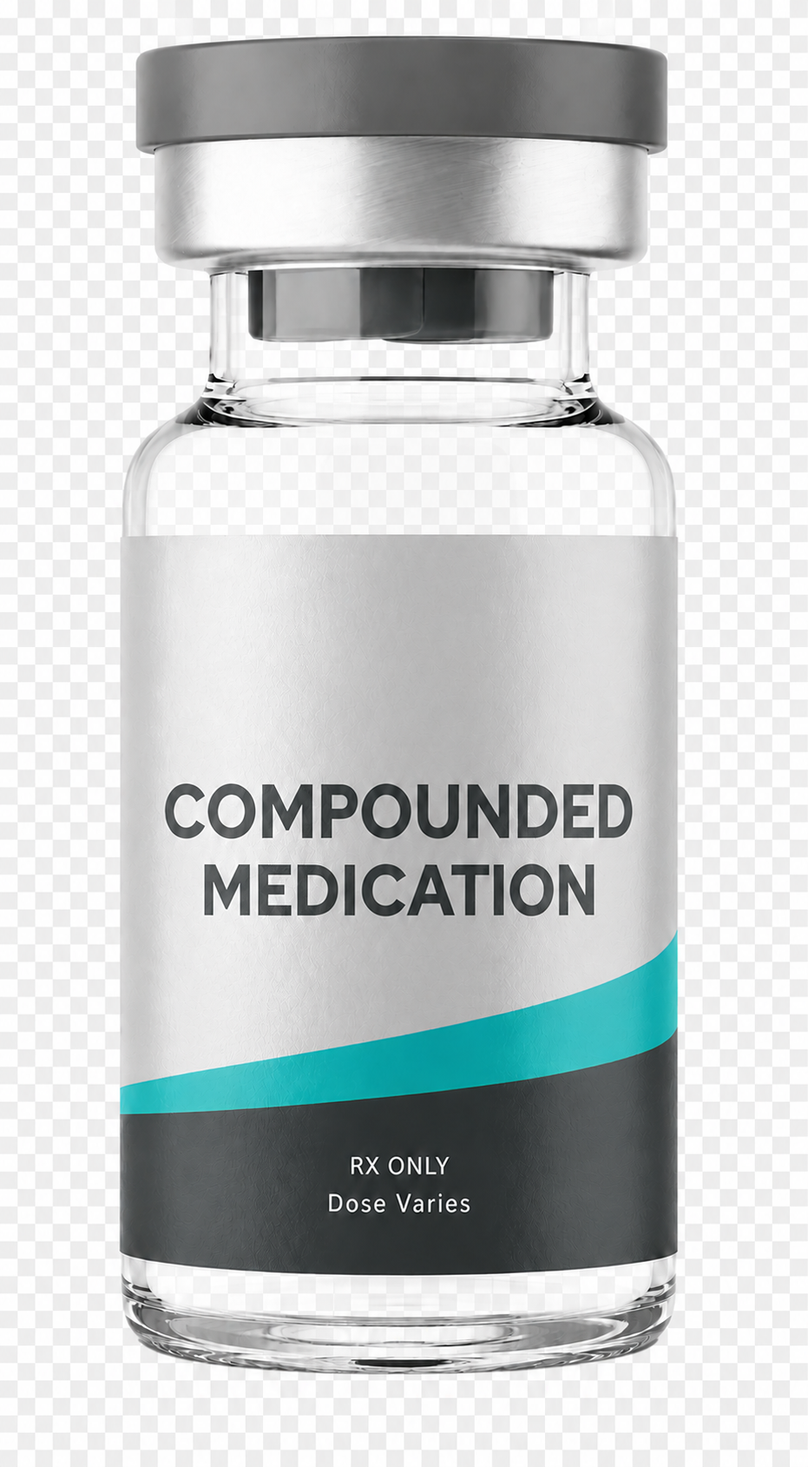
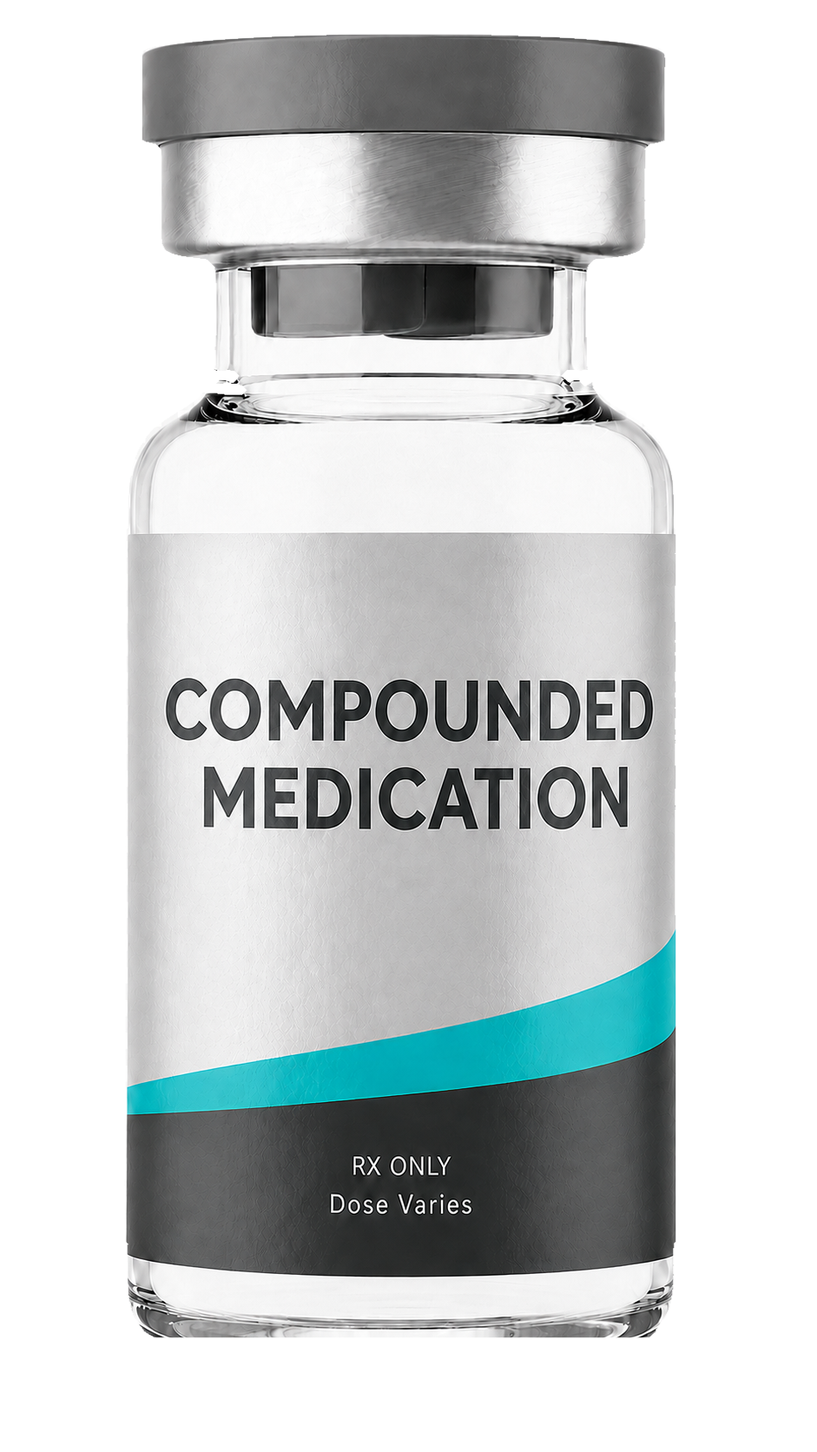
Refine compounded medication imagery and protocol presentation

diff --git a/app/page.tsx b/app/page.tsx
@@ -4,8 +4,6 @@
 import { useEffect, useMemo, useRef, useState } from "react";
 import { GoalMegaMenu } from "./components/SiteChrome";
 import { careJourney } from "./components/CareJourney";
-import { products } from "./components/product-data";
-import { TreatmentCard } from "./components/TreatmentCard";
 
 const legacyJourney = [
   ["01","Program selected","Choose the area where you want support."],
@@ -52,7 +50,7 @@ const heroPrograms: HeroProgram[] = [
   { title:"Sexual Health", href:"/eligibility/sexual-health", image:"/program-sexual-health-silhouette.webp", kind:"person women sexual" },
   { title:"Hair Restoration", href:"/eligibility/hair-restoration", image:"/program-hair-restoration-silhouette.webp", kind:"person hair" },
   { title:"Skin Regeneration", href:"/eligibility/skin-restoration", image:"/program-skin-rejuvenation-silhouette.webp", kind:"person skin" },
-  { title:"Compounded care", subtitle:"Patient-specific options", price:"$199", href:"/compounded", image:"/compounded-semaglutide-transparent.png", kind:"product semaglutide" },
+  { title:"Compounded care", subtitle:"Patient-specific options", price:"$199", href:"/compounded", image:"/v6/compounded-medication-generic.png", kind:"product semaglutide" },
 ];
 
 export default function Home() {
@@ -132,12 +130,6 @@ export default function Home() {
       <div className="wellness-tabs" role="tablist" aria-label="Wellness programs">{wellnessPrograms.map((program,index)=><button key={program.name} className={programActive===index?"active":""} onClick={()=>setProgramActive(index)} role="tab" aria-selected={programActive===index}><span>{program.number}</span><strong>{program.name}</strong><small>{program.kicker}</small><i><b></b></i></button>)}</div>
     </section>
 
-    <section className="section-shell" id="treatments">
-      <div className="section-heading"><div><p className="eyebrow">Treatment options</p><h2>Find out which option may be right for you.</h2></div><p>A provider reviews your health history, preferences and goals before recommending treatment.</p></div>
-      <div className="treatment-grid branded-grid">{products.map((product,index)=><TreatmentCard product={product} index={index} key={product.slug}/>)}</div>
-      <p className="section-disclaimer">Prescription products require an online consultation with an independent licensed healthcare provider who determines whether a prescription is appropriate. Compounded medications are not FDA approved.</p>
-    </section>
-
     <section className="bmi-section" aria-labelledby="bmi-title">
       <div className="bmi-intro"><p className="eyebrow">A useful starting point</p><h2 id="bmi-title">Check your BMI.</h2><p>Enter your height and weight for a quick estimate. A licensed provider considers your full health history, not BMI alone.</p></div>
       <div className="bmi-card">
@@ -174,9 +166,9 @@ export default function Home() {
     <section className="compounded-section compounded-section-v6" id="compounded">
       <div className="compounded-intro"><p className="eyebrow">Compounded medications</p><h2>Compare semaglutide, tirzepatide, and GLP-1 microdose.</h2><p>An independent provider may prescribe a compounded medication when it is legally available and appropriate for the patient. Compounded medications are not generic versions of branded drugs, and they are not FDA approved.</p></div>
       <div className="glance-grid glance-grid-v6">
-        <a className="glance-card semaglutide glance-card-v6" href="/eligibility/weight-loss"><img className="glance-product-vial" src="/v6/semaglutide-2.5mg-ml.png" alt="Compounded semaglutide medication vial"/><div className="glance-content"><div className="glance-number">01</div><p className="pill-label">Compounded option</p><h3>Semaglutide</h3><p className="glance-sub">Acts on the GLP-1 receptor.</p><dl><div><dt>Typical format</dt><dd>Injection*</dd></div><div><dt>Schedule</dt><dd>Set by provider</dd></div><div><dt>Clinical review</dt><dd>Required</dd></div><div><dt>FDA status</dt><dd>Not FDA approved</dd></div></dl><span className="glance-assessment-cta">Start assessment <b>→</b></span></div></a>
-        <a className="glance-card tirzepatide glance-card-v6" href="/eligibility/weight-loss"><img className="glance-product-vial" src="/v6/tirzepatide-5mg-0.5ml.png" alt="Compounded tirzepatide medication vial"/><div className="glance-content"><div className="glance-number">02</div><p className="pill-label">Compounded option</p><h3>Tirzepatide</h3><p className="glance-sub">Acts on the GIP and GLP-1 receptors.</p><dl><div><dt>Typical format</dt><dd>Injection*</dd></div><div><dt>Schedule</dt><dd>Set by provider</dd></div><div><dt>Clinical review</dt><dd>Required</dd></div><div><dt>FDA status</dt><dd>Not FDA approved</dd></div></dl><span className="glance-assessment-cta">Start assessment <b>→</b></span></div></a>
-        <a className="glance-card microdose glance-card-v6" href="/eligibility/weight-loss"><img className="glance-product-vial" src="/v6/glp1-microdose-500mcg-ml.png" alt="Compounded GLP-1 microdose medication vial"/><div className="glance-content"><div className="glance-number">03</div><p className="pill-label">Compounded option</p><h3>GLP-1 Microdose</h3><p className="glance-sub">Lower-dose GLP-1 pathway considered only after provider review.</p><dl><div><dt>Typical format</dt><dd>Injection*</dd></div><div><dt>Schedule</dt><dd>Set by provider</dd></div><div><dt>Clinical review</dt><dd>Required</dd></div><div><dt>FDA status</dt><dd>Not FDA approved</dd></div></dl><span className="glance-assessment-cta">Start assessment <b>→</b></span></div></a>
+        <a className="glance-card semaglutide glance-card-v6" href="/eligibility/weight-loss"><img className="glance-product-vial" src="/v6/compounded-medication-generic.png" alt="Compounded medication vial"/><div className="glance-content"><div className="glance-number">01</div><p className="pill-label">Compounded option</p><h3>Semaglutide</h3><p className="glance-sub">Acts on the GLP-1 receptor.</p><dl><div><dt>Typical format</dt><dd>Injection*</dd></div><div><dt>Schedule</dt><dd>Set by provider</dd></div><div><dt>Clinical review</dt><dd>Required</dd></div><div><dt>FDA status</dt><dd>Not FDA approved</dd></div></dl><span className="glance-assessment-cta">Start assessment <b>→</b></span></div></a>
+        <a className="glance-card tirzepatide glance-card-v6" href="/eligibility/weight-loss"><img className="glance-product-vial" src="/v6/compounded-medication-generic.png" alt="Compounded medication vial"/><div className="glance-content"><div className="glance-number">02</div><p className="pill-label">Compounded option</p><h3>Tirzepatide</h3><p className="glance-sub">Acts on the GIP and GLP-1 receptors.</p><dl><div><dt>Typical format</dt><dd>Injection*</dd></div><div><dt>Schedule</dt><dd>Set by provider</dd></div><div><dt>Clinical review</dt><dd>Required</dd></div><div><dt>FDA status</dt><dd>Not FDA approved</dd></div></dl><span className="glance-assessment-cta">Start assessment <b>→</b></span></div></a>
+        <a className="glance-card microdose glance-card-v6" href="/eligibility/weight-loss"><img className="glance-product-vial" src="/v6/compounded-medication-generic.png" alt="Compounded medication vial"/><div className="glance-content"><div className="glance-number">03</div><p className="pill-label">Compounded option</p><h3>GLP-1 Microdose</h3><p className="glance-sub">Lower-dose GLP-1 pathway considered only after provider review.</p><dl><div><dt>Typical format</dt><dd>Injection*</dd></div><div><dt>Schedule</dt><dd>Set by provider</dd></div><div><dt>Clinical review</dt><dd>Required</dd></div><div><dt>FDA status</dt><dd>Not FDA approved</dd></div></dl><span className="glance-assessment-cta">Start assessment <b>→</b></span></div></a>
       </div><p className="compounded-note">*Form, ingredients, concentration and availability vary by prescription and dispensing pharmacy. Compounded medications are prepared for an identified patient and are not reviewed by FDA for safety, effectiveness or quality before marketing.</p>
     </section>
 

diff --git a/app/product-experience.css b/app/product-experience.css
@@ -7,8 +7,8 @@
 .product-experience .product-ingredient{font-size:18px;color:#526466}
 .product-experience .product-hero-copy ul{margin:27px 0 34px;display:grid;gap:11px}
 .product-experience .product-hero-product{min-height:760px;position:relative;isolation:isolate;overflow:hidden;background:radial-gradient(circle at 50% 50%,#fff 0 16%,transparent 52%)}
-.product-experience .product-hero-product:has(>img[src$="glp1-vial-neutral-v2.png"]){background:radial-gradient(circle at 50% 42%,rgba(255,255,255,.98) 0 18%,rgba(197,238,236,.96) 42%,rgba(104,194,193,.34) 68%,rgba(53,182,184,.1) 100%)}
-.product-experience .product-hero-product>img[src$="glp1-vial-neutral-v2.png"]{width:51.8%;height:427px}
+.product-experience .product-hero-product:has(>img[src$="v6/compounded-medication-generic.png"]){background:radial-gradient(circle at 50% 42%,rgba(255,255,255,.98) 0 18%,rgba(197,238,236,.96) 42%,rgba(104,194,193,.34) 68%,rgba(53,182,184,.1) 100%)}
+.product-experience .product-hero-product>img[src$="v6/compounded-medication-generic.png"]{width:51.8%;height:427px}
 .product-experience.product-glp-1-tablets{--med-light:#fff;--med-mid:#dcebed;--med-deep:#9fb9be;--med-card:rgba(238,245,245,.83)}
 .product-experience.product-wegovy-pill{--med-light:#fff;--med-mid:#f0eadf;--med-deep:#c9d8d5;--med-card:rgba(247,243,235,.86)}
 .product-experience.product-wegovy-injection{--med-light:#faffff;--med-mid:#c8ebeb;--med-deep:#5f989d;--med-card:rgba(219,241,241,.84)}
@@ -16,11 +16,11 @@
 .product-experience:is(.product-glp-1-tablets,.product-wegovy-pill,.product-wegovy-injection,.product-zepbound-injection) .product-hero-product{background:radial-gradient(circle at 50% 42%,var(--med-light) 0 18%,var(--med-mid) 45%,var(--med-deep) 100%)}
 .product-experience:is(.product-glp-1-tablets,.product-wegovy-pill,.product-wegovy-injection,.product-zepbound-injection) .product-hero-product .product-aura{width:68%;height:72%;border:1px solid rgba(255,255,255,.93);border-radius:34px;background:linear-gradient(155deg,rgba(255,255,255,.92),var(--med-card));filter:none;box-shadow:inset 0 1px 0 #fff,0 28px 70px rgba(39,82,84,.14)}
 .product-experience:is(.product-glp-1-tablets,.product-wegovy-pill,.product-wegovy-injection,.product-zepbound-injection) .product-hero-product>img{width:min(58%,520px);height:500px}
-.product-experience .power-image:has(img[src$="glp1-tablets.png"]),.product-experience .compare-grid article>div:has(img[src$="glp1-tablets.png"]){background:radial-gradient(circle,#fff,#dcebed 68%,#9fb9be)}
+.product-experience .power-image:has(img[src$="compounded-medication-generic.png"]),.product-experience .compare-grid article>div:has(img[src$="compounded-medication-generic.png"]){background:radial-gradient(circle,#fff,#dcebed 68%,#9fb9be)}
 .product-experience .power-image:has(img[src$="wegovy-pill.png"]),.product-experience .compare-grid article>div:has(img[src$="wegovy-pill.png"]){background:radial-gradient(circle,#fff,#f0eadf 68%,#c9d8d5)}
 .product-experience .power-image:has(img[src$="wegovy-injection.png"]),.product-experience .compare-grid article>div:has(img[src$="wegovy-injection.png"]){background:radial-gradient(circle,#faffff,#c8ebeb 68%,#5f989d)}
 .product-experience .power-image:has(img[src$="zepbound-injection.png"]),.product-experience .compare-grid article>div:has(img[src$="zepbound-injection.png"]){background:radial-gradient(circle,#fff,#e7e0f1 68%,#a8cccc)}
-.product-experience .power-image:has(img[src$="glp1-tablets.png"]),.product-experience .power-image:has(img[src$="wegovy-pill.png"]),.product-experience .power-image:has(img[src$="wegovy-injection.png"]),.product-experience .power-image:has(img[src$="zepbound-injection.png"]),.product-experience .compare-grid article>div:has(img[src$="glp1-tablets.png"]),.product-experience .compare-grid article>div:has(img[src$="wegovy-pill.png"]),.product-experience .compare-grid article>div:has(img[src$="wegovy-injection.png"]),.product-experience .compare-grid article>div:has(img[src$="zepbound-injection.png"]){border:1px solid rgba(255,255,255,.9);border-radius:20px;box-shadow:inset 0 1px 0 #fff,0 16px 38px rgba(39,82,84,.1)}
+.product-experience .power-image:has(img[src$="compounded-medication-generic.png"]),.product-experience .power-image:has(img[src$="wegovy-pill.png"]),.product-experience .power-image:has(img[src$="wegovy-injection.png"]),.product-experience .power-image:has(img[src$="zepbound-injection.png"]),.product-experience .compare-grid article>div:has(img[src$="compounded-medication-generic.png"]),.product-experience .compare-grid article>div:has(img[src$="wegovy-pill.png"]),.product-experience .compare-grid article>div:has(img[src$="wegovy-injection.png"]),.product-experience .compare-grid article>div:has(img[src$="zepbound-injection.png"]){border:1px solid rgba(255,255,255,.9);border-radius:20px;box-shadow:inset 0 1px 0 #fff,0 16px 38px rgba(39,82,84,.1)}
 .product-experience .product-hero-product:before,.product-experience .product-hero-product:after{content:"";position:absolute;border:1px solid rgb(53 182 184 / 25%);border-radius:50%;pointer-events:none}
 .product-experience .product-hero-product:before{width:72%;aspect-ratio:1;transform:rotate(-13deg)}
 .product-experience .product-hero-product:after{width:91%;aspect-ratio:1;transform:rotate(21deg);border-color:rgb(255 255 255 / 80%)}
@@ -68,4 +68,4 @@
 @media(max-width:680px){.compounded-closing{min-height:650px;padding-top:270px}.compounded-closing-graphic{height:235px}.compounded-closing-graphic span{width:145px;height:220px}}
 @media(max-width:1000px){.product-page-nav{gap:22px}.product-experience .product-hero-detail{grid-template-columns:1fr}.product-experience .product-hero-product{min-height:620px}.product-experience .product-hero-product>img{height:560px}.product-experience .product-meet-image{height:560px}}
 @media(max-width:680px){.product-page-nav{justify-content:flex-start;overflow-x:auto;padding:0 20px;gap:24px;scrollbar-width:none}.product-page-nav a{flex:none}.product-experience .product-hero-copy{padding:70px 22px}.product-experience .product-hero-copy h1{font-size:55px}.product-experience .product-hero-product{min-height:510px}.product-experience .product-hero-product>img{width:88%;height:455px}.product-experience .product-hero-product.stage-life>img,.product-experience .product-hero-product.stage-care>img{width:82%;height:405px}.product-view-switcher{right:13px;top:11%;padding:8px}.product-view-switcher button{width:36px;height:36px}.product-stage-number{font-size:145px}.product-marquee{justify-content:flex-start;overflow-x:auto;gap:24px}.product-marquee span,.product-marquee i{flex:none}.product-experience .product-meet-image{height:450px}.product-experience .product-meet-copy{padding:65px 22px}.product-experience .product-meet-copy h2{font-size:47px}}
-@media(max-width:680px){.product-experience .product-hero-product>img[src$="glp1-vial-neutral-v2.png"]{width:61.6%;height:318.5px}}
+@media(max-width:680px){.product-experience .product-hero-product>img[src$="v6/compounded-medication-generic.png"]{width:61.6%;height:318.5px}}

diff --git a/app/compounded/page.tsx b/app/compounded/page.tsx
@@ -1,4 +1,4 @@
 import Link from "next/link";
 import { SiteFooter, SiteHeader } from "../components/SiteChrome";
 
-export default function CompoundedPage(){return <main className="detail-page compounded-page"><SiteHeader/><section className="info-hero compounded-info"><div><p className="detail-kicker">Compounded care</p><h1>Patient-specific options, when clinically necessary.</h1><p>Learn how independent providers and licensed pharmacies handle compounded medications through Rejuvonix.</p><Link className="detail-primary" href="/eligibility/weight-loss">Check eligibility</Link></div><img src="/compounded-member-unique.png" alt="A member reviewing an individualized care plan"/></section><section className="two-treatment two-treatment-v6"><div className="two-treatment-heading"><p className="detail-kicker">At a glance</p><h2>Semaglutide, tirzepatide, and GLP-1 microdose.</h2><p>Availability depends on clinical need, applicable law, pharmacy access and the provider’s judgment.</p></div><div className="two-treatment-grid two-treatment-grid-v6"><Link className="compounded-option-card" href="/eligibility/weight-loss"><img className="matched-vial" src="/v6/semaglutide-2.5mg-ml.png" alt="Compounded semaglutide medication vial"/><p>Compounded option</p><h3>Semaglutide</h3><span>GLP-1 receptor agonist</span><b>Start assessment →</b></Link><Link className="compounded-option-card dark" href="/eligibility/weight-loss"><img className="matched-vial" src="/v6/tirzepatide-5mg-0.5ml.png" alt="Compounded tirzepatide medication vial"/><p>Compounded option</p><h3>Tirzepatide</h3><span>GIP and GLP-1 receptor agonist</span><b>Start assessment →</b></Link><Link className="compounded-option-card microdose" href="/eligibility/weight-loss"><img className="matched-vial" src="/v6/glp1-microdose-500mcg-ml.png" alt="Compounded GLP-1 microdose medication vial"/><p>Compounded option</p><h3>GLP-1 Microdose</h3><span>Lower-dose GLP-1 pathway</span><b>Start assessment →</b></Link></div></section><section className="editorial-split compounded-personal"><img src="/compounded-individual-care-v2.png" alt="A patient reviewing an individualized care plan with a clinician"/><div><p className="detail-kicker">What patient specific means</p><h2>Your prescription begins with your medical needs.</h2><p>A compounded medication is prepared for an individual patient based on a valid prescription. It is not a generic version of a branded drug and is not FDA approved.</p><ul><li>Independent licensed provider evaluation</li><li>Prescription sent to a licensed compounding pharmacy</li><li>Pharmacy-specific instructions and fulfillment</li><li>Provider follow-up through the platform</li></ul></div></section><section className="safety-detail compounded-safety-note"><div><p className="detail-kicker">Important distinction</p><h2>Compounded medications are not FDA approved.</h2></div><div><p>The FDA does not review compounded medications for safety, effectiveness or quality before they are marketed. A prescription is never guaranteed. Compounded options are offered only when legally available and clinically appropriate.</p><Link href="/safety">Read the safety overview →</Link></div></section><SiteFooter/></main>}
+export default function CompoundedPage(){return <main className="detail-page compounded-page"><SiteHeader/><section className="info-hero compounded-info"><div><p className="detail-kicker">Compounded care</p><h1>Patient-specific options, when clinically necessary.</h1><p>Learn how independent providers and licensed pharmacies handle compounded medications through Rejuvonix.</p><Link className="detail-primary" href="/eligibility/weight-loss">Check eligibility</Link></div><img src="/compounded-member-unique.png" alt="A member reviewing an individualized care plan"/></section><section className="two-treatment two-treatment-v6"><div className="two-treatment-heading"><p className="detail-kicker">At a glance</p><h2>Semaglutide, tirzepatide, and GLP-1 microdose.</h2><p>Availability depends on clinical need, applicable law, pharmacy access and the provider’s judgment.</p></div><div className="two-treatment-grid two-treatment-grid-v6"><Link className="compounded-option-card" href="/eligibility/weight-loss"><img className="matched-vial" src="/v6/compounded-medication-generic.png" alt="Compounded medication vial"/><p>Compounded option</p><h3>Semaglutide</h3><span>GLP-1 receptor agonist</span><b>Start assessment →</b></Link><Link className="compounded-option-card dark" href="/eligibility/weight-loss"><img className="matched-vial" src="/v6/compounded-medication-generic.png" alt="Compounded medication vial"/><p>Compounded option</p><h3>Tirzepatide</h3><span>GIP and GLP-1 receptor agonist</span><b>Start assessment →</b></Link><Link className="compounded-option-card microdose" href="/eligibility/weight-loss"><img className="matched-vial" src="/v6/compounded-medication-generic.png" alt="Compounded medication vial"/><p>Compounded option</p><h3>GLP-1 Microdose</h3><span>Lower-dose GLP-1 pathway</span><b>Start assessment →</b></Link></div></section><section className="editorial-split compounded-personal"><img src="/compounded-individual-care-v2.png" alt="A patient reviewing an individualized care plan with a clinician"/><div><p className="detail-kicker">What patient specific means</p><h2>Your prescription begins with your medical needs.</h2><p>A compounded medication is prepared for an individual patient based on a valid prescription. It is not a generic version of a branded drug and is not FDA approved.</p><ul><li>Independent licensed provider evaluation</li><li>Prescription sent to a licensed compounding pharmacy</li><li>Pharmacy-specific instructions and fulfillment</li><li>Provider follow-up through the platform</li></ul></div></section><section className="safety-detail compounded-safety-note"><div><p className="detail-kicker">Important distinction</p><h2>Compounded medications are not FDA approved.</h2></div><div><p>The FDA does not review compounded medications for safety, effectiveness or quality before they are marketed. A prescription is never guaranteed. Compounded options are offered only when legally available and clinically appropriate.</p><Link href="/safety">Read the safety overview →</Link></div></section><SiteFooter/></main>}

diff --git a/app/product-cards.css b/app/product-cards.css
@@ -68,9 +68,9 @@
 @media(max-width:760px){#treatments .branded-grid .treatment-card{min-height:420px;padding:15px}#treatments .branded-grid .product-stage{height:220px;margin:9px -3px 6px}#treatments .branded-grid .product-stage img{width:96%;height:96%}#treatments .branded-grid .card-content>a{margin-top:11px}}
 
 /* One consistent canvas for the approved neutral peptide vial. */
-.treatment-card:has(img[src$="glp1-vial-neutral-v2.png"]){background:linear-gradient(145deg,#f2fbfa 0%,#d8f0ef 58%,#bddfdf 100%)!important}
-.product-stage:has(img[src$="glp1-vial-neutral-v2.png"]){border:1px solid rgba(255,255,255,.78);background:radial-gradient(circle at 50% 42%,rgba(255,255,255,.98) 0 18%,rgba(197,238,236,.96) 42%,rgba(104,194,193,.34) 68%,rgba(53,182,184,.1) 100%);box-shadow:inset 0 1px 0 rgba(255,255,255,.95),0 18px 42px rgba(45,101,104,.11)}
-.product-stage:has(img[src$="glp1-vial-neutral-v2.png"]) img{width:65.8%!important;height:65.8%!important;mix-blend-mode:normal!important;filter:drop-shadow(0 22px 22px rgba(32,77,79,.18))}
+.treatment-card:has(img[src$="v6/compounded-medication-generic.png"]){background:linear-gradient(145deg,#f2fbfa 0%,#d8f0ef 58%,#bddfdf 100%)!important}
+.product-stage:has(img[src$="v6/compounded-medication-generic.png"]){border:1px solid rgba(255,255,255,.78);background:radial-gradient(circle at 50% 42%,rgba(255,255,255,.98) 0 18%,rgba(197,238,236,.96) 42%,rgba(104,194,193,.34) 68%,rgba(53,182,184,.1) 100%);box-shadow:inset 0 1px 0 rgba(255,255,255,.95),0 18px 42px rgba(45,101,104,.11)}
+.product-stage:has(img[src$="v6/compounded-medication-generic.png"]) img{width:65.8%!important;height:65.8%!important;mix-blend-mode:normal!important;filter:drop-shadow(0 22px 22px rgba(32,77,79,.18))}
 
 /* One measured product frame for all five GLP-1 cards. */
 #treatments .branded-grid .product-stage{
@@ -104,19 +104,19 @@
   background:linear-gradient(160deg,rgba(255,255,255,.88),rgba(224,242,240,.6));
   box-shadow:0 14px 35px rgba(39,87,89,.1);
 }
-#treatments .branded-grid .product-stage:has(img[src$="glp1-tablets.png"]){background:radial-gradient(circle at 50% 42%,#fff 0 18%,#edf4f4 42%,#c9dcde 70%,#aebfc3 100%)}
-#treatments .branded-grid .product-stage:has(img[src$="glp1-tablets.png"]):before{background:linear-gradient(160deg,rgba(255,255,255,.94),rgba(225,235,236,.74));border-color:rgba(255,255,255,.94)}
+#treatments .branded-grid .product-stage:has(img[src$="compounded-medication-generic.png"]){background:radial-gradient(circle at 50% 42%,#fff 0 18%,#edf4f4 42%,#c9dcde 70%,#aebfc3 100%)}
+#treatments .branded-grid .product-stage:has(img[src$="compounded-medication-generic.png"]):before{background:linear-gradient(160deg,rgba(255,255,255,.94),rgba(225,235,236,.74));border-color:rgba(255,255,255,.94)}
 #treatments .branded-grid .product-stage:has(img[src$="wegovy-pill.png"]){background:radial-gradient(circle at 50% 42%,#fff 0 18%,#f7f3eb 42%,#e5ded1 70%,#cbd9d7 100%)}
 #treatments .branded-grid .product-stage:has(img[src$="wegovy-pill.png"]):before{background:linear-gradient(160deg,rgba(255,255,255,.95),rgba(239,234,223,.75))}
 #treatments .branded-grid .product-stage:has(img[src$="wegovy-injection.png"]){background:radial-gradient(circle at 50% 42%,#faffff 0 18%,#dff3f3 42%,#9fcfd1 70%,#5e959a 100%)}
 #treatments .branded-grid .product-stage:has(img[src$="wegovy-injection.png"]):before{background:linear-gradient(160deg,rgba(255,255,255,.94),rgba(202,234,234,.7))}
 #treatments .branded-grid .product-stage:has(img[src$="zepbound-injection.png"]){background:radial-gradient(circle at 50% 42%,#fff 0 18%,#f2eef8 42%,#d7cee7 70%,#a9cece 100%)}
 #treatments .branded-grid .product-stage:has(img[src$="zepbound-injection.png"]):before{background:linear-gradient(160deg,rgba(255,255,255,.95),rgba(231,226,241,.72))}
-#treatments .branded-grid .product-stage img[src$="glp1-vial-neutral-v2.png"]{
+#treatments .branded-grid .product-stage img[src$="v6/compounded-medication-generic.png"]{
   width:56%!important;
   height:56%!important;
 }
 @media(max-width:760px){
   #treatments .branded-grid .product-stage img{width:76%!important;height:76%!important}
-  #treatments .branded-grid .product-stage img[src$="glp1-vial-neutral-v2.png"]{width:54%!important;height:54%!important}
+  #treatments .branded-grid .product-stage img[src$="v6/compounded-medication-generic.png"]{width:54%!important;height:54%!important}
 }

diff --git a/app/protocols.css b/app/protocols.css
@@ -63,3 +63,20 @@
 @media(max-width:1000px){.protocol-detail-hero-v6{grid-template-columns:1fr!important}.protocol-hero-product{min-height:420px}.protocol-detail-lower{grid-template-columns:1fr}.protocol-detail-lower aside{justify-content:flex-start}.protocol-detail-lower aside>div{justify-content:flex-start}}
 @media(max-width:680px){.protocol-scroll-track{gap:14px;padding:0 20px}.protocol-product-card{flex-basis:84vw;min-height:690px!important;border-radius:26px!important}.protocol-card-visual{height:245px}.protocol-card-body{padding:28px 24px}.protocol-detail-hero-v6{padding:58px 22px 48px!important}.protocol-detail-copy h1{font-size:58px!important}.protocol-hero-product{min-height:380px}.protocol-hero-product>img{height:350px;width:min(220px,68%)}.protocol-bottle-halo{width:280px;height:280px}.protocol-floating-goal{font-size:9px}.protocol-detail-lower aside{display:grid!important;gap:10px}.protocol-detail-lower aside>div{display:grid;gap:5px}.protocol-inline-trust{justify-content:flex-start;gap:14px;padding-inline:4px}}
 @media(prefers-reduced-motion:reduce){.protocol-hero-product>img,.protocol-bottle-halo,.protocol-floating-goal{animation:none!important}.protocol-product-card,.protocol-card-visual img,.protocol-card-visual:after{transition:none!important}}
+
+/* Current protocol-count refinement: keep the bottle translucent behind a breathing number ring. */
+.protocol-hero-index,.protocol-category-count{position:relative;isolation:isolate;overflow:hidden}
+.protocol-hero-index>img,.protocol-category-count>img{position:absolute;z-index:-1;width:58%;height:86%;left:21%;top:7%;object-fit:contain;opacity:.13;filter:drop-shadow(0 20px 24px rgba(8,38,37,.2));transform:rotate(7deg)}
+.protocol-count-ring{position:relative;z-index:1;width:126px;height:126px;margin:18px 0 8px;display:grid;place-items:center;border:1px solid #53c5c8;border-radius:50%;box-shadow:0 0 0 10px rgba(83,197,200,.08),0 0 32px rgba(83,197,200,.22);animation:protocolCountPulse 3.6s ease-in-out infinite}
+.protocol-count-ring:after{content:"";position:absolute;inset:-10px;border:1px solid rgba(83,197,200,.5);border-radius:50%;animation:protocolCountPulse 3.6s ease-in-out infinite reverse}
+.protocol-category-count .protocol-count-ring{margin:0 0 16px}
+@keyframes protocolCountPulse{0%,100%{transform:scale(.98);opacity:.82}50%{transform:scale(1.04);opacity:1}}
+.protocol-floating-goal{--goal-rotation:-16deg}
+.goal-orbit-1{right:4%;top:20%;--goal-rotation:-18deg}.goal-orbit-2{left:2%;bottom:24%;--goal-rotation:18deg}.goal-orbit-3{right:13%;bottom:13%;--goal-rotation:-12deg}
+@keyframes protocolGoalDrift{0%,100%{transform:translate3d(0,0,22px) rotate(var(--goal-rotation))}50%{transform:translate3d(8px,-9px,42px) rotate(calc(var(--goal-rotation) + 4deg))}}
+@media(prefers-reduced-motion:reduce){.protocol-count-ring,.protocol-count-ring:after{animation:none}.protocol-floating-goal{animation:none!important}}
+
+/* Trust message sits directly below the protocol navigation, matching the compact dark assurance strip. */
+.protocol-inline-trust{max-width:none;margin:0;padding:18px 5vw;background:#30383b;border:0;color:#d9e1e0;gap:34px;justify-content:center}
+.protocol-inline-trust span{font-size:12px}.protocol-inline-trust b{color:#d9e1e0}.protocol-inline-trust .protocol-trust-rating{display:grid;grid-template-columns:auto auto;column-gap:10px;row-gap:2px}.protocol-trust-rating>b{grid-row:1 / span 2;color:#16bd8b;letter-spacing:2px}.protocol-trust-rating strong{font-size:13px;color:#fff}.protocol-trust-rating small{color:#aab7b7;font-size:10px}
+@media(max-width:680px){.protocol-inline-trust{justify-content:flex-start;gap:16px;overflow-x:auto;white-space:nowrap}.protocol-inline-trust .protocol-trust-rating{white-space:normal}}

diff --git a/app/components/ProductPage.tsx b/app/components/ProductPage.tsx
@@ -51,7 +51,7 @@ export function ProductPage({product}: {product: Product}) {
     <section className="future-banner"><img src={product.heroImage} alt={product.shortName} /><div><p className="detail-kicker">Care for the long term</p><h2>Build a plan you can understand and follow.</h2><Link className="detail-primary" href="/eligibility/weight-loss">Check eligibility</Link></div></section>
     <section className="safety-detail" id="important-safety"><div><p className="detail-kicker">Important safety information</p><h2>Know the risks before treatment.</h2></div><div><p>{product.safety}</p><p>Tell your provider about all medical conditions, allergies, pregnancy plans, and every prescription, over-the-counter medicine and supplement you use. Seek urgent care for a medical emergency.</p><p>{product.labelUrl?<a href={product.labelUrl} target="_blank" rel="noreferrer">Official FDA Prescribing Information (PDF) ↗</a>:<a href="https://www.fda.gov/drugs/human-drug-compounding/compounding-and-fda-questions-and-answers" target="_blank" rel="noreferrer">FDA compounding questions and answers ↗</a>}</p><Link href="/safety">Read the safety overview →</Link></div></section>
     <section className="detail-faq"><div><p className="detail-kicker">Frequently asked questions</p><h2>Common questions about {product.shortName}.</h2></div><div>{[[`Is ${product.shortName} guaranteed after the assessment?`,"No. A licensed provider decides whether treatment is appropriate."],["How is my dose selected?","Your provider selects the prescription and adjusts it only when clinically appropriate."],["Where does medication come from?","If prescribed, an independent licensed pharmacy dispenses and ships the medication."],["Can I ask questions after starting?","Yes. Use the platform for provider messages and required follow-up." ]].map(([question,answer]) => <details key={question}><summary>{question}<span>+</span></summary><p>{answer}</p></details>)}</div></section>
-    <section className={`detail-closing ${compounded?"compounded-closing":""}`}>{compounded&&<div className="compounded-closing-graphic" aria-hidden="true"><span><img src="/compounded-semaglutide-transparent.png" alt=""/></span><span><img src="/compounded-tirzepatide-transparent.png" alt=""/></span></div>}<p className="detail-kicker">Get started</p><h2>{compounded?"Find out which compounded option may fit your care plan.":"Find out which option may fit your health needs."}</h2><Link className="detail-primary" href="/eligibility/weight-loss">Start the assessment</Link><small>A prescription is not guaranteed.</small></section>
+    <section className={`detail-closing ${compounded?"compounded-closing":""}`}>{compounded&&<div className="compounded-closing-graphic" aria-hidden="true"><span><img src="/v6/compounded-medication-generic.png" alt=""/></span><span><img src="/v6/compounded-medication-generic.png" alt=""/></span></div>}<p className="detail-kicker">Get started</p><h2>{compounded?"Find out which compounded option may fit your care plan.":"Find out which option may fit your health needs."}</h2><Link className="detail-primary" href="/eligibility/weight-loss">Start the assessment</Link><small>A prescription is not guaranteed.</small></section>
     <SiteFooter />
   </main>;
 }

diff --git a/app/revamp.css b/app/revamp.css
@@ -34,3 +34,15 @@
 .glance-grid-v6{max-width:1480px;grid-template-columns:repeat(3,minmax(0,1fr));gap:18px}.glance-card-v6{display:block;min-height:690px;padding:38px 32px 30px;color:inherit;text-decoration:none;border-radius:30px!important;transition:transform .35s ease,box-shadow .35s ease}.glance-card-v6:hover{transform:translateY(-7px);box-shadow:0 32px 70px rgba(32,70,70,.15)}.glance-card-v6.microdose{background:linear-gradient(145deg,#f7ffff 0%,#dff6f3 58%,#c9e7e5 100%)}.glance-product-vial{position:absolute;z-index:0;width:160px;height:275px;right:18px;top:22px;object-fit:contain;opacity:.34;filter:drop-shadow(0 22px 24px rgba(17,61,64,.2));transform:rotate(7deg);transition:transform .45s cubic-bezier(.2,.8,.2,1),opacity .35s ease}.glance-card-v6:hover .glance-product-vial{transform:translateY(-13px) rotate(2deg) scale(1.04);opacity:.55}.glance-card-v6:after{z-index:1}.glance-card-v6 .glance-content{z-index:2}.glance-card-v6 h3{font-size:38px;margin-top:54px}.glance-assessment-cta{display:flex;min-height:54px;align-items:center;justify-content:center;gap:12px;margin-top:18px;border:1px solid currentColor;border-radius:16px;font-size:12px;font-weight:900;letter-spacing:.02em}.glance-assessment-cta b{color:var(--aqua)}.glance-card-v6:hover .glance-assessment-cta{box-shadow:0 0 0 1px rgba(53,182,184,.16),0 0 20px rgba(53,182,184,.18)}
 @media(max-width:1050px){.glance-grid-v6{grid-template-columns:1fr 1fr}.glance-card-v6.microdose{grid-column:1/-1}}
 @media(max-width:680px){.glance-grid-v6{grid-template-columns:1fr}.glance-card-v6.microdose{grid-column:auto}.glance-card-v6{min-height:620px}.glance-product-vial{width:130px;height:235px;right:4px;top:18px}}
+
+/* Current compounded-card refinement: compact tiles, centered translucent bottle, and numbered pulse rings. */
+.glance-card-v6{min-height:565px;display:flex;flex-direction:column}
+.glance-card-v6 .glance-content{display:flex;flex:1;flex-direction:column}
+.glance-product-vial{width:210px;height:300px;left:50%;right:auto;top:42%;transform:translate(-50%,-50%) rotate(7deg);opacity:.28}
+.glance-card-v6:hover .glance-product-vial{transform:translate(-50%,calc(-50% - 13px)) rotate(2deg) scale(1.04)}
+.glance-assessment-cta{margin-top:auto}
+.glance-number{width:86px;height:86px;right:25px;top:20px;display:grid;place-items:center;border:1px solid rgba(53,182,184,.48);border-radius:50%;animation:compoundedNumberPulse 3.6s ease-in-out infinite}
+.glance-number:after{content:"";position:absolute;inset:-9px;border:1px solid rgba(53,182,184,.25);border-radius:50%;animation:compoundedNumberPulse 3.6s ease-in-out infinite reverse}
+@keyframes compoundedNumberPulse{0%,100%{transform:scale(.98);opacity:.78}50%{transform:scale(1.04);opacity:1}}
+@media(max-width:680px){.glance-card-v6{min-height:540px}.glance-product-vial{width:210px;height:285px;left:50%;right:auto;top:40%}}
+@media(prefers-reduced-motion:reduce){.glance-number{animation:none}.glance-number:after{animation:none}}

diff --git a/app/protocols/[slug]/page.tsx b/app/protocols/[slug]/page.tsx
@@ -16,9 +16,10 @@ export default async function ProtocolRoute({params}:{params:Promise<{slug:strin
   if(goal){
     const items=protocolsForGoal(goal.slug);
     return <main className="detail-page protocols-page"><SiteHeader/>
-      <section className="protocol-category-hero"><div><p className="detail-kicker">Protocols · {goal.name}</p><h1>{goal.name} protocols.</h1><p>{goal.intro}</p><Link className="detail-primary" href={goal.assessmentRoute}>Start {goal.name.toLowerCase()} assessment</Link></div><div className="protocol-category-count"><strong>{String(items.length).padStart(2,"0")}</strong><span>catalog entries</span></div></section>
+      <section className="protocol-category-hero"><div><p className="detail-kicker">Protocols · {goal.name}</p><h1>{goal.name} protocols.</h1><p>{goal.intro}</p><Link className="detail-primary" href={goal.assessmentRoute}>Start {goal.name.toLowerCase()} assessment</Link></div><div className="protocol-category-count"><img src="/v6/compounded-medication-generic.png" alt="" aria-hidden="true"/><strong className="protocol-count-ring">{String(items.length).padStart(2,"0")}</strong><span>catalog entries</span></div></section>
       <nav className="protocol-filter-bar" aria-label="Protocol categories"><Link href="/protocols">All Protocols</Link>{protocolGoals.map((item)=><Link className={item.slug===goal.slug?"active":""} href={`/protocols/${item.slug}`} key={item.slug}>{item.name}</Link>)}</nav>
-      <section className="protocol-library"><div className="protocol-library-heading"><div><p className="detail-kicker">Explore {goal.name}</p><h2>Review the available education before sharing health information.</h2></div><p>Category placement is for discovery. It does not establish an approved indication, guarantee availability, or replace an independent provider&apos;s clinical judgment.</p></div><div className="protocol-scroll-shell" aria-label={`${goal.name} protocols horizontal list`}><div className="protocol-scroll-track">{items.map((protocol,index)=><ProtocolCard protocol={protocol} index={index} key={protocol.slug}/>)}</div></div><ProtocolTrustStrip/></section>
+      <ProtocolTrustStrip/>
+      <section className="protocol-library"><div className="protocol-library-heading"><div><p className="detail-kicker">Explore {goal.name}</p><h2>Review the available education before sharing health information.</h2></div><p>Category placement is for discovery. It does not establish an approved indication, guarantee availability, or replace an independent provider&apos;s clinical judgment.</p></div><div className="protocol-scroll-shell" aria-label={`${goal.name} protocols horizontal list`}><div className="protocol-scroll-track">{items.map((protocol,index)=><ProtocolCard protocol={protocol} index={index} key={protocol.slug}/>)}</div></div></section>
       <SiteFooter/></main>;
   }
 

diff --git a/app/components/product-data.ts b/app/components/product-data.ts
@@ -20,7 +20,7 @@ export type Product = {
 
 export const products: Product[] = [
   {
-    slug: "glp-1-injections", name: "GLP-1 Injections", shortName: "GLP-1 injections", ingredient: "Compounded prescription option", format: "Injection", cadence: "Usually once weekly", status: "Compounded medication", image: "/glp1-vial-neutral-v2.png", heroImage: "/testimonial-unique-2.jpg",
+    slug: "glp-1-injections", name: "GLP-1 Injections", shortName: "GLP-1 injections", ingredient: "Compounded prescription option", format: "Injection", cadence: "Usually once weekly", status: "Compounded medication", image: "/v6/compounded-medication-generic.png", heroImage: "/testimonial-unique-2.jpg",
     intro: "A provider may consider a patient-specific compounded injectable when it is clinically appropriate, legally available and cannot be met by a commercially available product.",
     highlights: ["Online health assessment", "Independent licensed provider review", "Your prescriber chooses the dose and schedule"],
     ingredientPoints: ["The active ingredient and formulation depend on the provider’s prescription.", "Compounded medications are prepared for an individual patient by a licensed pharmacy.", "They are not generic versions of branded medications and are not FDA approved."],
@@ -30,7 +30,7 @@ export const products: Product[] = [
     safety: "Compounded medications are not FDA approved. The FDA does not review compounded products for safety, effectiveness or quality before they are marketed. Availability depends on applicable law, clinical need and pharmacy access."
   },
   {
-    slug: "glp-1-tablets", name: "GLP-1 Tablets", shortName: "GLP-1 tablets", ingredient: "Compounded prescription option", format: "Dissolvable tablet", cadence: "Usually once daily", status: "Compounded medication", image: "/glp1-tablets.png", heroImage: "/testimonial-unique-3.jpg",
+    slug: "glp-1-tablets", name: "GLP-1 Tablets", shortName: "GLP-1 tablets", ingredient: "Compounded prescription option", format: "Dissolvable tablet", cadence: "Usually once daily", status: "Compounded medication", image: "/v6/compounded-medication-generic.png", heroImage: "/testimonial-unique-3.jpg",
     intro: "A provider may consider a patient-specific compounded oral option when it is medically appropriate and legally available.",
     highlights: ["Needle-free format", "Independent licensed provider review", "Simple daily routine when prescribed"],
     ingredientPoints: ["The exact ingredient and strength depend on the prescription.", "A licensed pharmacy prepares the patient-specific formulation.", "Compounded tablets are not FDA approved."],

diff --git a/app/protocols/page.tsx b/app/protocols/page.tsx
@@ -8,18 +8,18 @@ export default function ProtocolsPage(){
     <SiteHeader/>
     <section className="protocol-hero">
       <div><p className="detail-kicker">Protocol library</p><h1>Explore the complete protocol catalog.</h1><p>Start with a goal or browse the full educational library. A protocol appearing here does not mean it is available or appropriate for you. Independent licensed providers make clinical decisions after review.</p></div>
-      <div className="protocol-hero-index" aria-label="Protocol library summary"><span>MASTER LIBRARY</span><strong>{String(protocols.length).padStart(2,"0")}</strong><small>protocol entries mapped across five Rejuvonix goals</small></div>
+      <div className="protocol-hero-index" aria-label="Protocol library summary"><img src="/v6/compounded-medication-generic.png" alt="" aria-hidden="true"/><span>MASTER LIBRARY</span><strong className="protocol-count-ring">{String(protocols.length).padStart(2,"0")}</strong><small>protocol entries mapped across five Rejuvonix goals</small></div>
     </section>
     <nav className="protocol-filter-bar" aria-label="Protocol categories">
       <Link className="active" href="/protocols">All Protocols</Link>
       {protocolGoals.map((goal)=><Link href={`/protocols/${goal.slug}`} key={goal.slug}>{goal.name}</Link>)}
     </nav>
+    <ProtocolTrustStrip/>
     <section className="protocol-library" id="all-protocols">
       <div className="protocol-library-heading"><div><p className="detail-kicker">All protocols</p><h2>One library. Clear pathways.</h2></div><p>Browse horizontally to compare protocols, then open the individual page for clinical context, provider review and supporting quality documentation.</p></div>
       <div className="protocol-scroll-shell" aria-label="All protocols horizontal list"><div className="protocol-scroll-track">
         {protocols.map((protocol,index)=><ProtocolCard protocol={protocol} index={index} key={protocol.slug}/>) }
       </div></div>
-      <ProtocolTrustStrip/>
     </section>
     <section className="protocol-clinical-note"><div><p className="detail-kicker">Clinical boundary</p><h2>Education first. Provider judgment always.</h2></div><p>Some catalog entries are investigational, compounded, not FDA approved for the goal shown, or may not be legally or clinically available. Rejuvonix will not convert a catalog entry into a treatment offer until the relevant provider, pharmacy, state and regulatory requirements are verified.</p></section>
     <SiteFooter/>

diff --git a/app/detail-pages.css b/app/detail-pages.css
@@ -17,8 +17,8 @@
 .goal-product-silhouette img{position:relative;z-index:1;display:block;width:100%;height:100%;object-fit:contain;object-position:center;filter:drop-shadow(0 20px 22px rgba(27,69,72,.18))}
 .goal-program-card:hover .goal-product-silhouette{opacity:.24;transform:translateY(-4px) scale(1.025)}
 .goal-program-card:nth-child(2) .goal-product-silhouette,.goal-program-card:nth-child(3) .goal-product-silhouette{left:20px;right:20px}
-.goal-product-silhouette:has(img[src$="glp1-vial-neutral-v2.png"]){inset:52px 12px 176px;border-radius:24px;background:radial-gradient(circle at 50% 42%,rgba(255,255,255,.98) 0 18%,rgba(197,238,236,.96) 42%,rgba(104,194,193,.34) 68%,rgba(53,182,184,.1) 100%);mix-blend-mode:normal}
-.goal-product-silhouette img[src$="glp1-vial-neutral-v2.png"]{width:70%;height:70%}
+.goal-product-silhouette:has(img[src$="v6/compounded-medication-generic.png"]){inset:52px 12px 176px;border-radius:24px;background:radial-gradient(circle at 50% 42%,rgba(255,255,255,.98) 0 18%,rgba(197,238,236,.96) 42%,rgba(104,194,193,.34) 68%,rgba(53,182,184,.1) 100%);mix-blend-mode:normal}
+.goal-product-silhouette img[src$="v6/compounded-medication-generic.png"]{width:70%;height:70%}
 @media(max-width:620px){.goal-product-silhouette{inset:50px 18px 170px;opacity:.16}}
 .two-treatment-grid article>a{display:flex;width:max-content;margin:20px 0 0 auto;text-align:right}
 

diff --git a/app/components/protocol-data.ts b/app/components/protocol-data.ts
@@ -74,8 +74,8 @@ const baseProtocols: BaseProtocolItem[] = [
 
 
 const protocolPresentation: Record<string, {priceLabel: string; image: string; imageAlt: string}> = {
-  semaglutide: {priceLabel: "Current pricing confirmed in assessment", image: "/v6/semaglutide-2.5mg-ml.png", imageAlt: "Compounded semaglutide medication vial"},
-  tirzepatide: {priceLabel: "Current pricing confirmed in assessment", image: "/v6/tirzepatide-5mg-0.5ml.png", imageAlt: "Compounded tirzepatide medication vial"},
+  semaglutide: {priceLabel: "Current pricing confirmed in assessment", image: "/v6/compounded-medication-generic.png", imageAlt: "Compounded medication vial"},
+  tirzepatide: {priceLabel: "Current pricing confirmed in assessment", image: "/v6/compounded-medication-generic.png", imageAlt: "Compounded medication vial"},
   "semax-selank": {priceLabel: "from $239/mo", image: "/v6/compounded-medication-generic.png", imageAlt: "Compounded medication vial"},
   dsip: {priceLabel: "from $199/mo", image: "/v6/compounded-medication-generic.png", imageAlt: "Compounded medication vial"},
   "nad-plus": {priceLabel: "from $159/mo", image: "/v6/compounded-medication-generic.png", imageAlt: "Compounded medication vial"},
